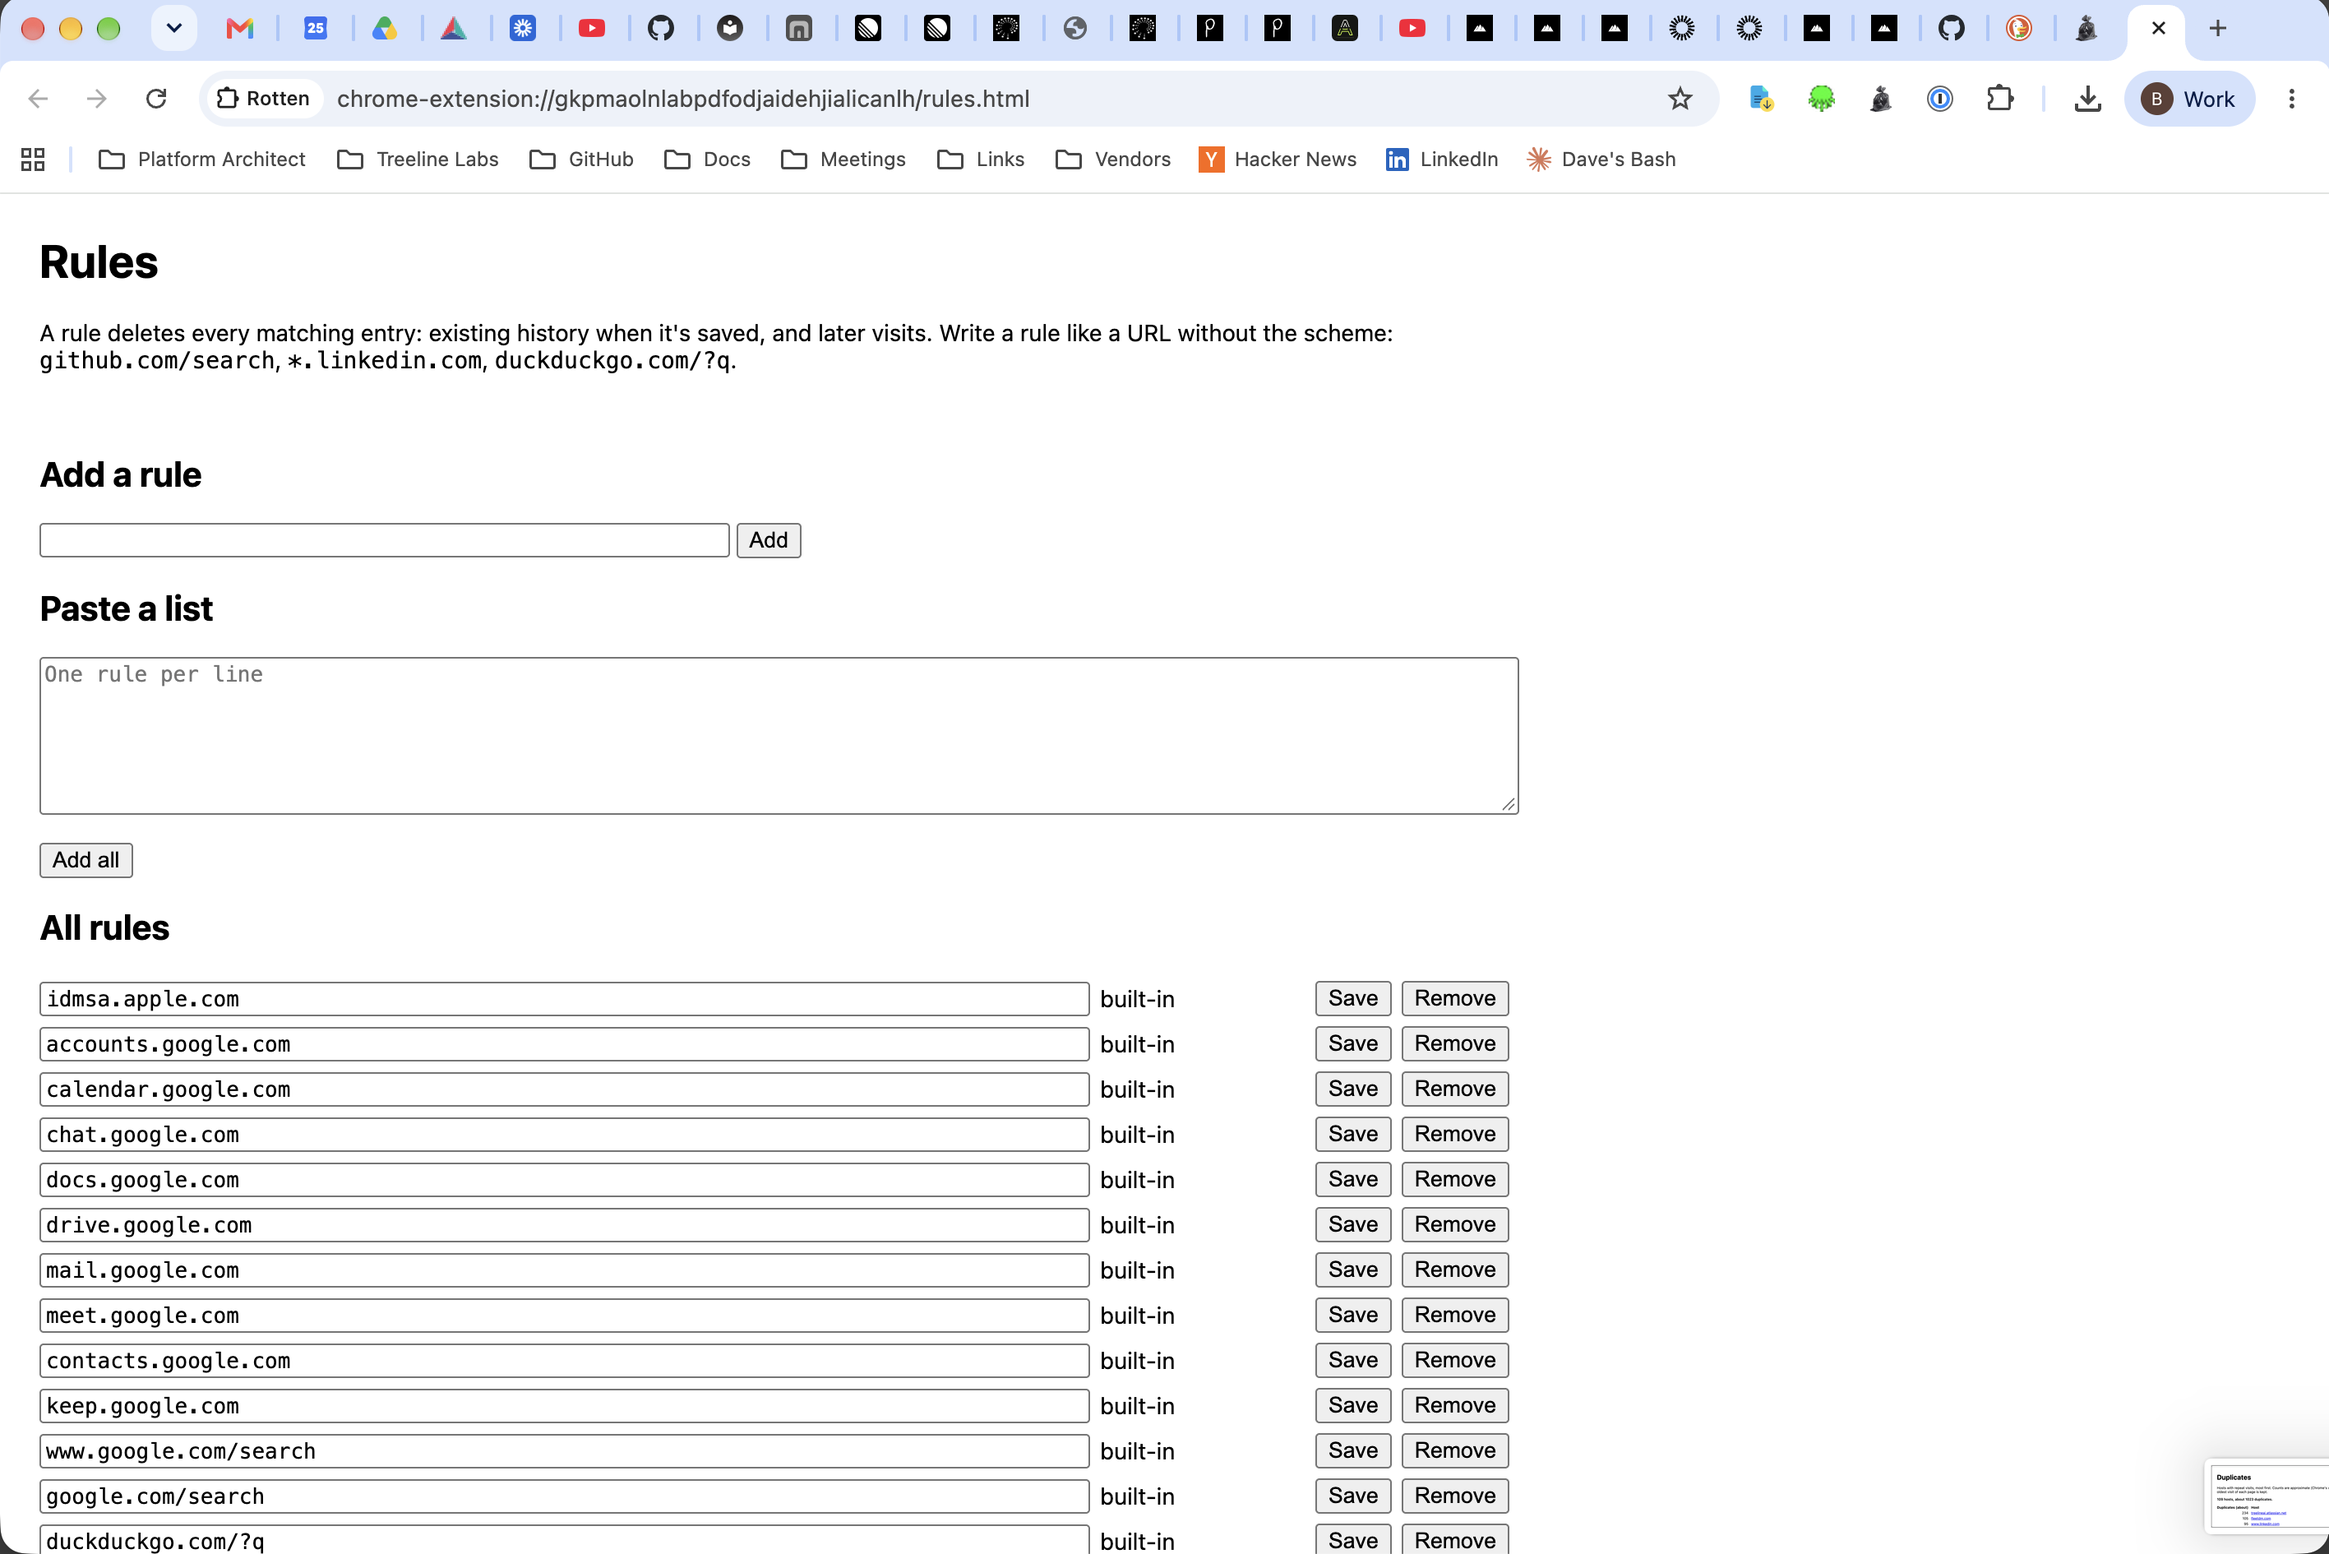
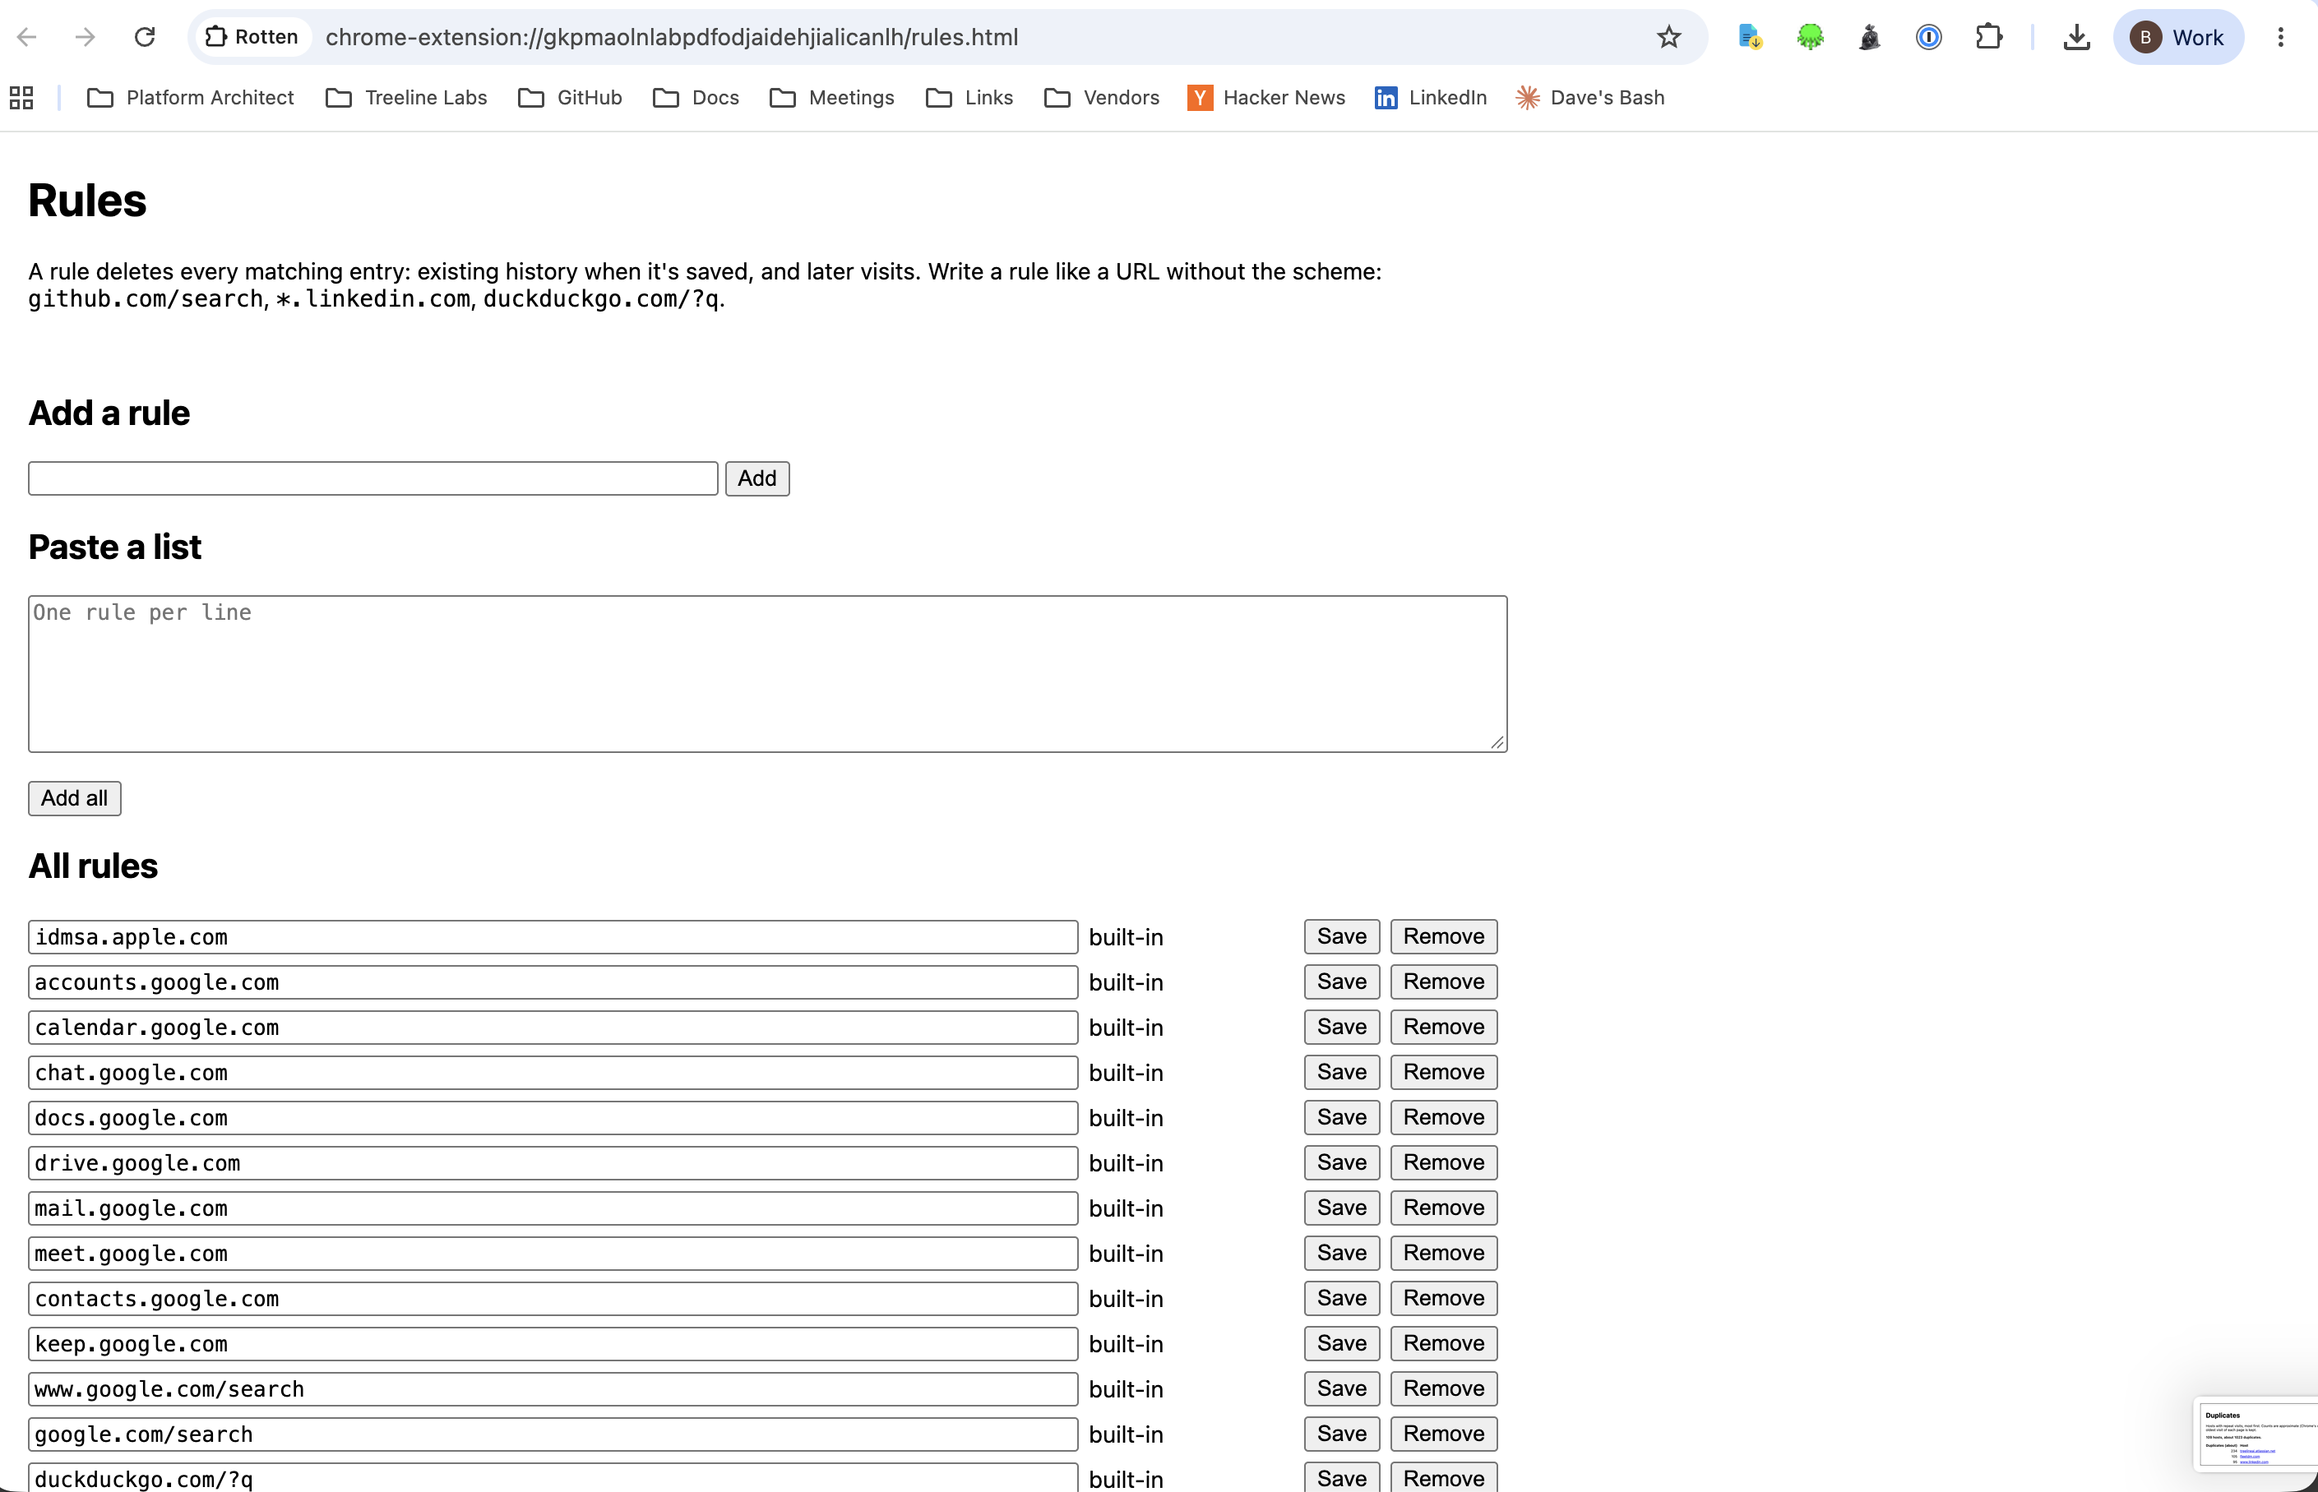
README: remove self-referencing Rules link

diff --git a/README.md b/README.md
@@ -57,7 +57,7 @@ Hosts with repeat visits, most first. Click a host to see its pages and their vi
 
 ### Rules
 
-Every rule, built-in and added, each editable and removable. Add one rule, or paste a list. See [Rules](#rules).
+Every rule, built-in and added, each editable and removable. Add one rule, or paste a list.
 
 ## Install
 
